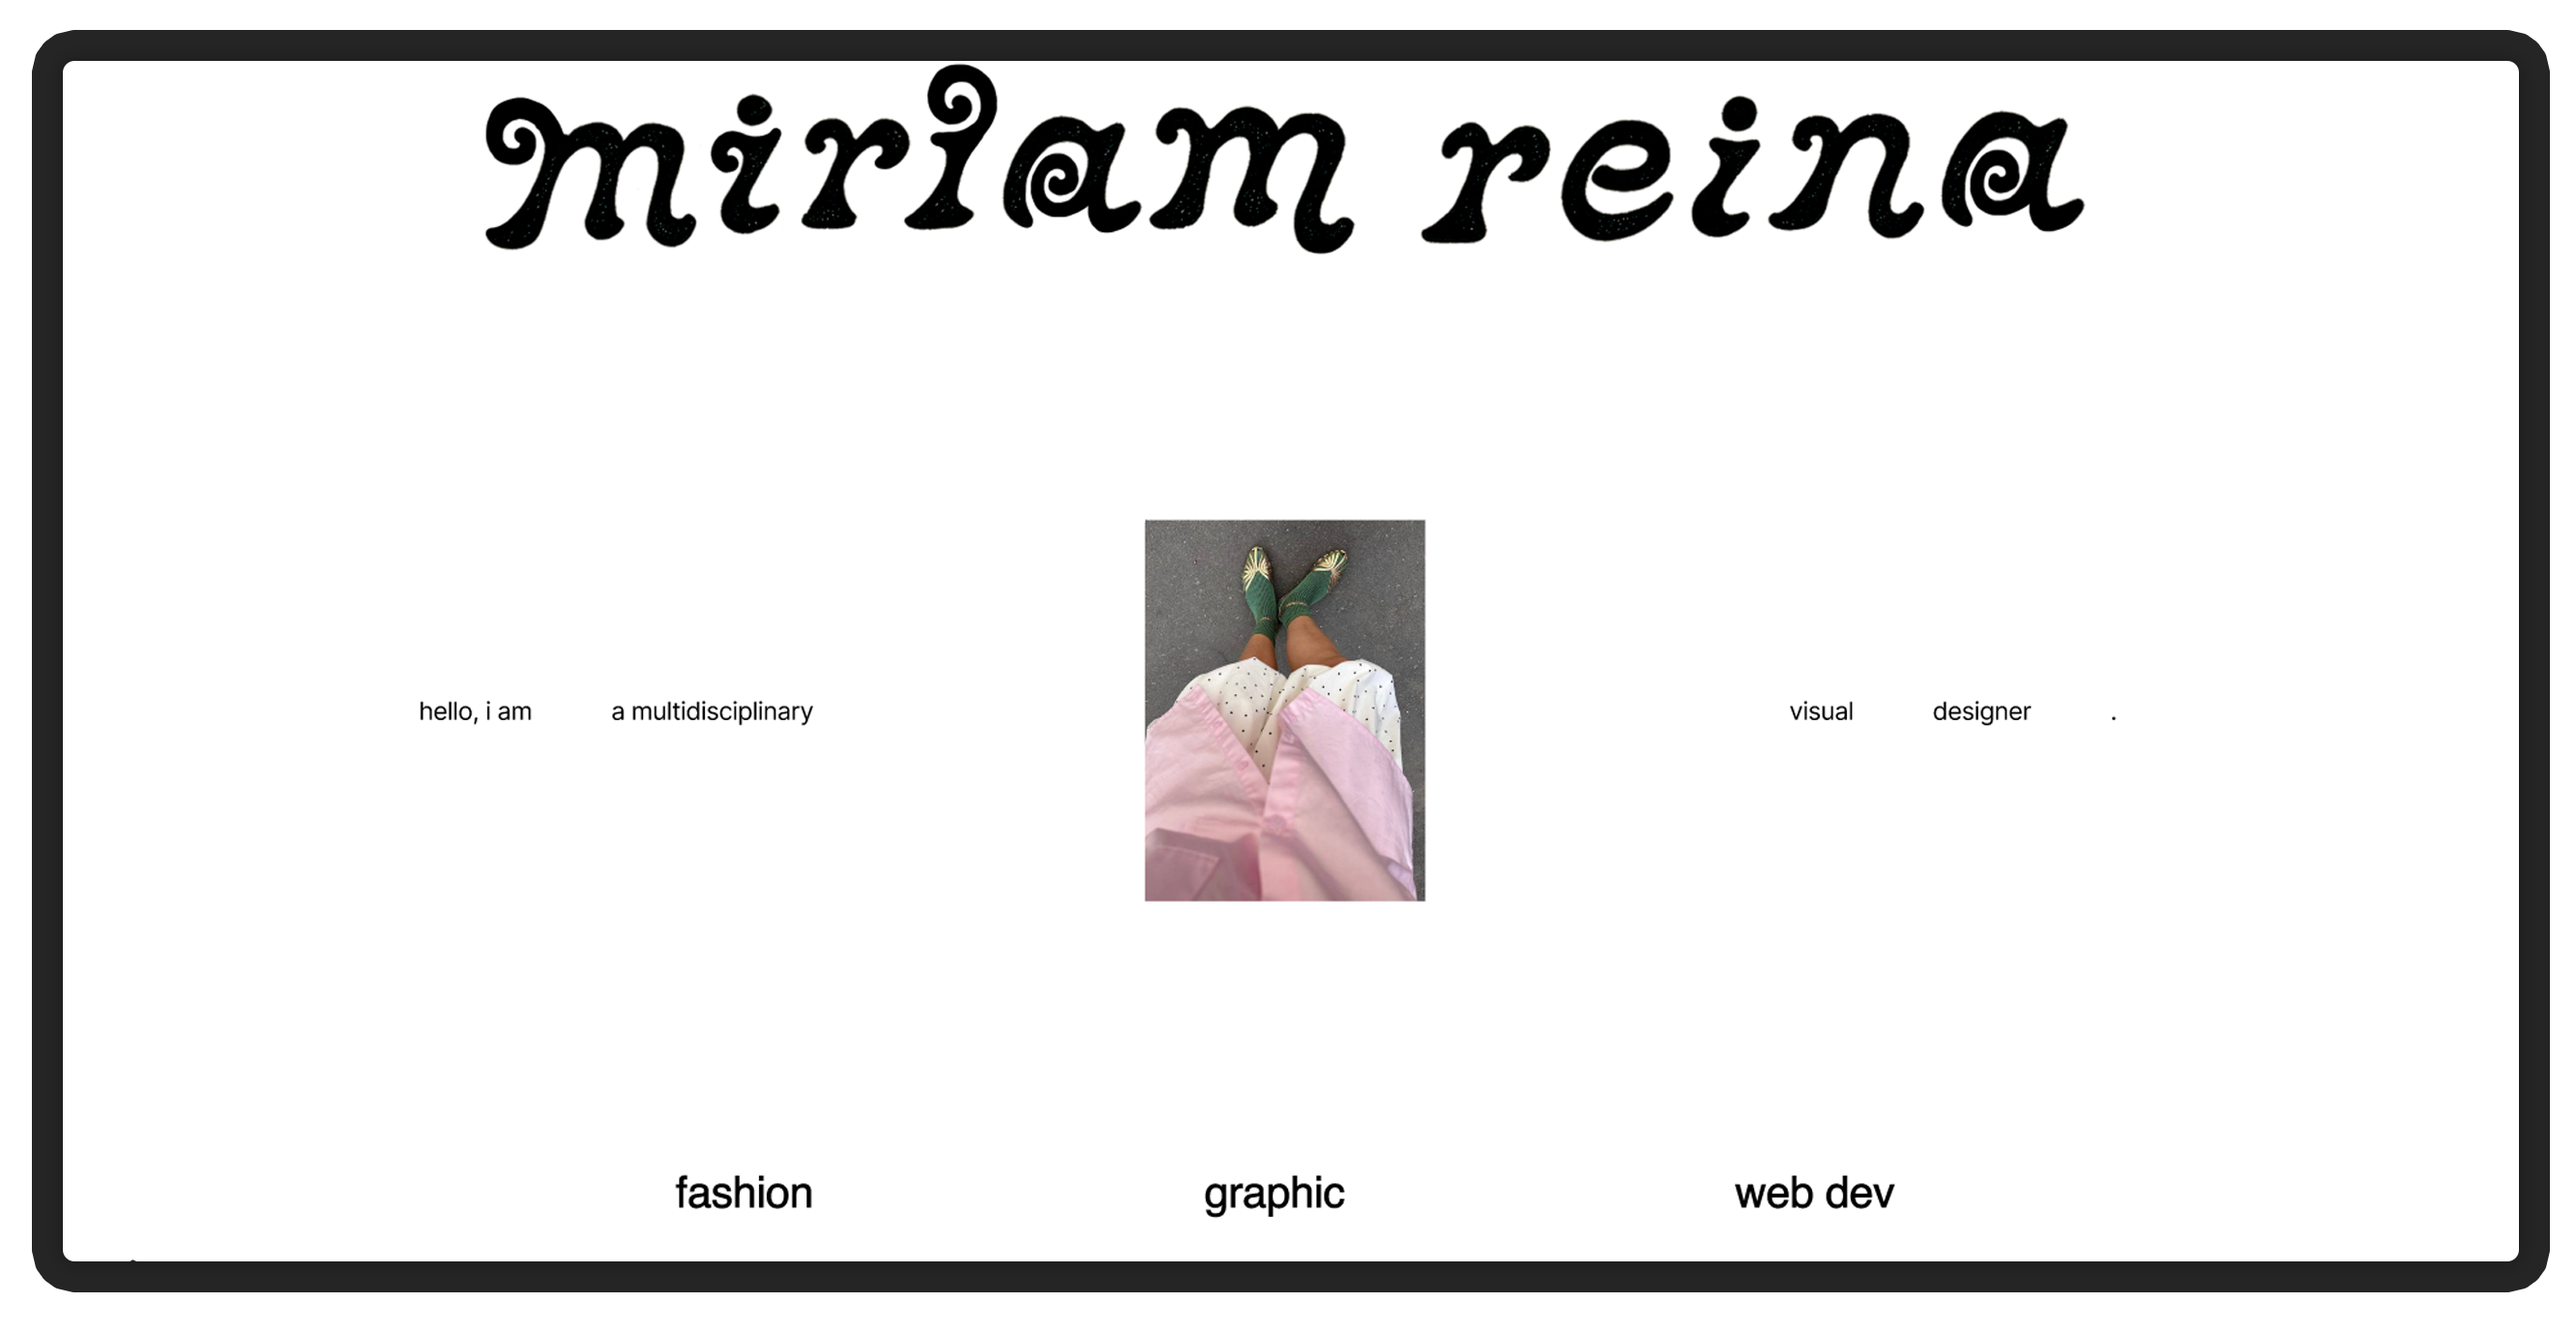
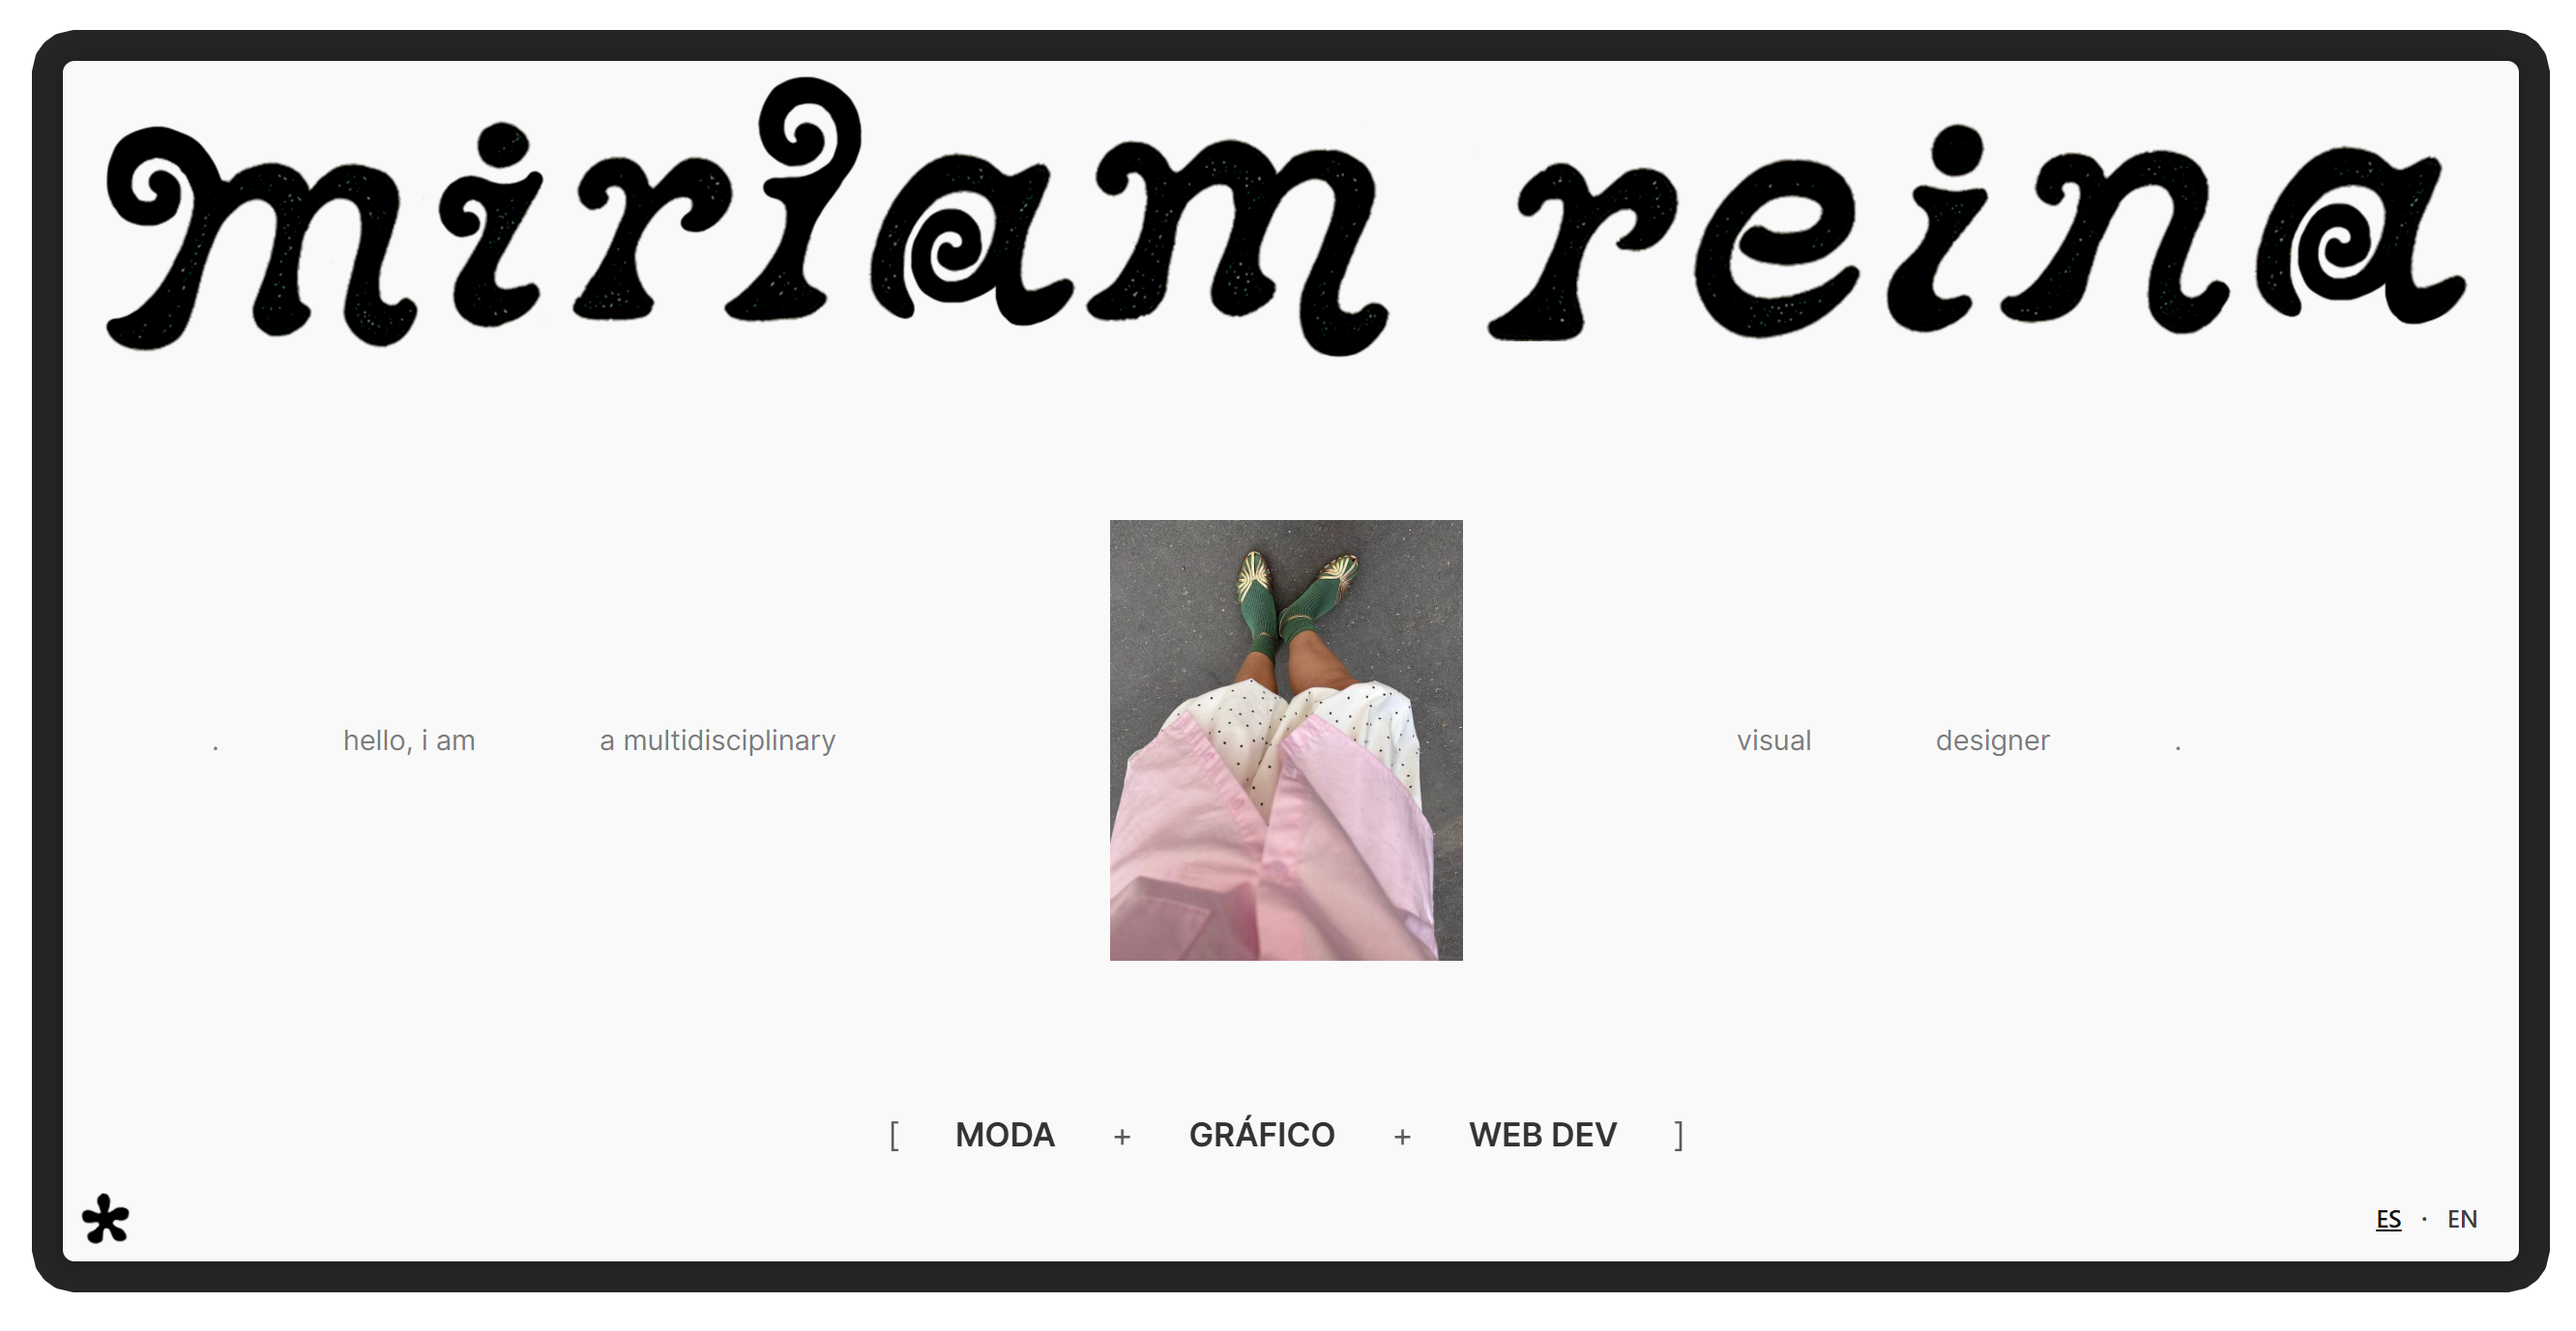
index desktop done

diff --git a/css/components.css b/css/components.css
@@ -65,31 +65,57 @@
 }
 
 .logo-index {
-  height: 35vh;
-  width: 100%;
+  height: 30vh;
+  max-width: 100%;
+  padding: 24px;
+  box-sizing: border-box;
   display: flex;
   justify-content: center;
+  align-items: center;
 }
 
-
 #logo-img-index {
-  max-height: 250px;
-  width: auto;
-  display: block;
-  padding: 24px 0;
+  width: 100%;
+  max-width: 1400px;
+  max-height: 35vh;
+  object-fit: contain;
 }
 
 .container-index {
-  height: 35vh;
+  height: 59vh;
   width: 100%;
   display: flex;
   justify-content: space-evenly;
   align-items: center;
-  gap: 32px;
+  gap: 24px;
+}
+
+.container-index-p {
+  width: 100%;
+  display: flex;
+  flex-direction: row;
+  justify-content: space-between;
+  gap: 5vw;
+}
+
+.img-index-container {
+  width: 100%;
+  height: 65%;
+  overflow: hidden; 
+  align-items: center;
+}
+
+.img-index {
+  width: 100%;
+  height: 100%;
+  object-fit: contain;
+  transition: 0.20s ease-in-out;
 }
 
 .container-index-p p {
   margin: 0;
+  font-size: var(--font-size-xs);
+  color: var(--color-text-midlighter);
 }
 
 .text-fade-out {
@@ -102,20 +128,6 @@
   transition: opacity 0.20s ease-in-out;
 }
 
-.img-index-container {
-  width: 25%;
-  height: 75%;
-  overflow: hidden; 
-  align-items: center;
-}
-
-.img-index {
-  width: 100%;
-  height: 100%;
-  object-fit: contain;
-  transition: 0.20s ease-in-out;
-}
-
 .fade-out {
   opacity: 0;
   transition: opacity 0.20s ease-in-out;
@@ -124,13 +136,6 @@
 .fade-in {
   opacity: 1;
   transition: opacity 0.20s ease-in-out;
-}
-
-.container-index-p {
-  width: 37.5%;
-  display: flex;
-  flex-direction: row;
-  gap: 32px;
 }
 
 .container-index-p.end {
@@ -151,29 +156,41 @@ justify-content: flex-start;
 
 
 .nav-index {
-  height: 25vh;
+  height: 5vh;
   width: 100%;
   display: flex;
-  flex-direction: column;
+  flex-direction: row;
   justify-content: center;
-  align-items: center;
+  align-items: baseline;
   gap: 24px;
   margin: 0px;
+  opacity: 0.85;
 }
 
 .nav-index a {
+  font-family: var(--font-header);
   text-decoration: none;
-  font-size: var(--font-size-2xl);
+  font-size: var(--font-size-s);
   color: var(--color-text);
-  font-weight: bold;
+  font-weight: var( --font-weight-semi-bold);
+  text-transform: uppercase;
+  -webkit-text-stroke: .1px black;
+  line-height: 0px;
 } 
 
 .nav-index a:hover {
-  text-decoration-line: underline;       /* Activa el subrayado */
-  text-decoration-color: var(--color-text);            /* Cambia el color del subrayado */
-  text-decoration-thickness: 2px;        /* Grosor del subrayado */
+  text-decoration-line: underline;
+  text-decoration-color: var(--color-text); 
+  text-decoration-thickness: 1.5px;
   text-underline-offset: 4px;    
 } 
+
+
+.nav-span {
+  text-decoration: none;
+  font-size: var(--font-size-s);
+  color: var(--color-text-lighter);
+}
 
 @media (max-width: 768px) {
   .logo-index {
@@ -909,10 +926,10 @@ border-color: var(--color-border-light);
 
 .footer-language {
   width: 100%;
-  height: 30px;
+  height: 100%;
   display: flex;
   flex-direction: row;
-  color: var(--color-text);
+  color: var(--color-text-lighter);
   justify-content: flex-end;
   align-items: center;
 }
@@ -921,16 +938,18 @@ border-color: var(--color-border-light);
   background: none;
   border: none;
   cursor: pointer;
-  font-size: 1.2rem;
+  font-size: var(--font-size-xxs);
   justify-items: end;
-  color: var(--color-text);
+  color: var(--color-text-lighter);
   font-family: var(--font-logo);
-  font-weight: bold;
+  font-weight: var(--font-weight-medium);
   padding: 0px 8px;
 }
 
-.footer-language button:hover {
+.footer-language button:hover,
+.footer-language button.active  {
   text-decoration: underline;
+    color: var(--color-text);
 }
 
 button.theme-toggle {

diff --git a/index.html b/index.html
@@ -39,34 +39,38 @@ miriamreina.com
   <!-- Contenido principal ya insertado -->
   <main class="no-margin">
     <a class="logo-index" href="/index.html">
-      <img id="logo-img-index" src="/assets/images/logo1-mobile.png" alt="Miriam Reina logo" />
+      <img id="logo-img-index" src="/assets/images/logo1.png" alt="Miriam Reina logo" />
     </a>
 
     <div class="container-index">
       <div class="container-index-p end">
         <p></p>
-        <p></p>
-        <p></p>
+        <p>hello    , i am </p>
+        <p>a multidisciplinary</p>
       </div>
-      <div class="img-index-container"><img class="img-index" src="/assets/images/miriamreina-logo.gif" alt="Miriam Reina" /></div>
+      <div class="img-index-container"><img class="img-index" src="/assets/images/miriamreinab.png" alt="Miriam Reina" /></div>
       <div class="container-index-p start">
-        <p></p>
-        <p></p>
-        <p></p>
+        <p>visual</p>
+        <p>designer</p>
+        <p>.</p>
       </div>
     </div>
 
     <nav class="nav-index">
-      <a class="pp-neuebit" href="fashion.html">moda</a>
-      <a class="pp-neuebit" href="graphic.html">gráfico</a>
-      <a class="pp-neuebit" href="web.html">web dev</a>
+      <span class="nav-span display-none-mobile">[</span>
+      <a href="fashion.html">moda</a>
+      <span class="nav-span display-none-mobile">+</span>
+      <a href="graphic.html">gráfico</a>
+      <span class="nav-span display-none-mobile">+</span>
+      <a href="web.html">web dev</a>
+      <span class="nav-span display-none-mobile">]</span>
     </nav>
   </main>
   <!-- Footer -->
   <footer class="footer-index">
-  <img src="/assets/images/favicon-black.png" alt="Favicon" style="width: 30px; height: 30px; object-fit: contain;">
+  <img src="/assets/images/favicon-black.png" alt="Favicon" style="width: 25px; height: 25px; object-fit: contain;">
       <div class="footer-language">
-      <button>EN</button> · <button>ES</button>
+      <button class="active">ES</button> · <button>EN</button>
     </div>
   </footer>
 

diff --git a/css/base.css b/css/base.css
@@ -29,20 +29,33 @@
   --color-accent: #FFFF6F;
   --color-border: rgba(0, 0, 0, 0.15);
   --color-text-lighter: rgba(0, 0, 0, 0.75);
+  --color-text-midlighter: rgba(0, 0, 0, 0.45);
 
   /* ✍ TIPOGRAFÍA */
-  --font-logo: 'PP-NeueBit', 'Inter', sans-serif;
-  --font-header: 'PP-Air', 'Inter', sans-serif;
-  --font-body: 'Inter', sans-serif;
+  --font-logo: Helvetica, Arial, sans-serif;
+  --font-header: Helvetica, Arial, sans-serif;
+  --font-body: Helvetica, Arial, sans-serif;
+  --font-size-xxs: 0.65rem;   /* 10px */
   --font-size-xs: 0.75rem;   /* 12px */
   --font-size-s: 0.875rem;   /* 14px */
   --font-size-base: 1rem;    /* 16px */
   --font-size-m: 1.25rem;    /* 20px */
-  --font-size-l: 1.75rem;     /* 24px */
+  --font-size-l: 1.5rem;     /* 24px */
   --font-size-xl: 2rem;      /* 32px */
-  --font-size-2xl: 3rem;      /* 40px */
-  --font-size-3xl: 5rem;      /* 40px */
-  --font-size-xxl: 9rem;     /* 48px */
+  --font-size-2xl: 2.5rem;   /* 40px */
+  --font-size-3xl: 3rem;     /* 48px */
+  --font-size-xxl: 4rem;     /* 64px */
+
+  /* ✍ PESOS FUENTE */
+  --font-weight-thin: 100;      /* Muy fino (poco usado en UI) */
+  --font-weight-extra-light: 200;
+  --font-weight-light: 300;     /* Textos secundarios / notas */
+  --font-weight-regular: 400;   /* Texto base */
+  --font-weight-medium: 500;    /* Botones, etiquetas */
+  --font-weight-semi-bold: 600; /* Subtítulos, headers medios */
+  --font-weight-bold: 700;      /* Titulares principales */
+  --font-weight-extra-bold: 800;
+  --font-weight-black: 900;     /* Muy pesado (casi nunca en UI) */
 
   /* 📐 SPACING (ESPACIOS) */
   --space-xxs: 4px;

diff --git a/css/layout.css b/css/layout.css
@@ -541,14 +541,14 @@ nav.selector a:hover {
 /* FOOTER */
 /* ----------------------------------- */
 footer.footer-index {
-  height: 5vh;
+  height: 6vh;
   display: flex;
   justify-content: space-between;
-  align-items: center;
+  align-items: flex-start;
   flex-direction: row;
   text-align: center;
   font-size: 0.8rem;
-  padding: 0 12px 8px 16px;
+  padding: 0px 12px 8px;
 }
 
 .footer-btn {
